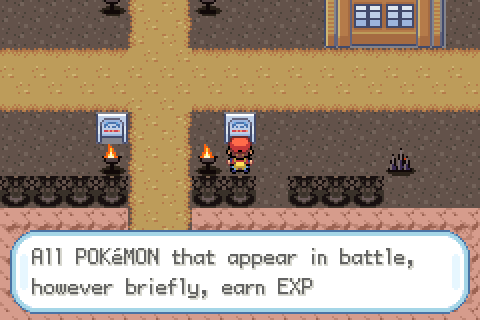
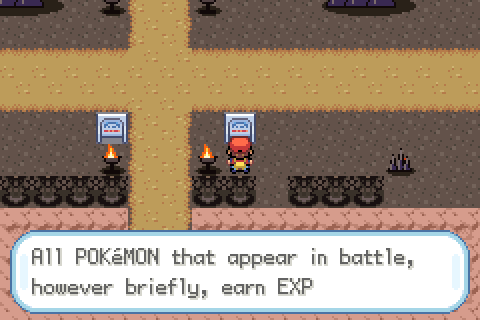
Pyropia v3b: no doorless houses, craters/obsidian fillers, museum hall back, roof fix, path network assertion
Claude-Session: https://claude.ai/code/session_01GQJ6VBZbBVtTh4mURN6n2L

Changed region(s): [[0.6562, 0.0, 0.9375, 0.1562], [0.0, 0.0, 0.1562, 0.0625]]

diff --git a/docs/topaze/pyropia_town.py b/docs/topaze/pyropia_town.py
@@ -150,26 +150,24 @@ D = {}
 chunk(2, 2, 6, 8, 4, 2, 'lac ouest')
 lake(31, 3, 10, 5, 'lac est')
 D['gym'] = chunk(2, 11, 6, 5, 20, 3, 'arene')
-D['museumA'] = chunk(11, 12, 4, 4, 4, 13, 'musee aile A')
-D['museumB'] = chunk(15, 12, 4, 4, 8, 13, 'musee aile B')
-D['center'] = chunk(8, 3, 4, 4, 14, 13, 'centre pokemon')
-D['mart'] = chunk(14, 2, 4, 4, 36, 13, 'boutique')
+# musee : grande halle rouge de 10x4 a deux portes (comme l'original : deux entrees), assemblee avec les morceaux de maison
+LCOL, RCOL, WCOL, DCOL = [8, 16, 24, 32], [10, 18, 26, 34], [9, 17, 11, 19], [9, 17, 25, 33]
+MUSEUM_COLS = [LCOL, WCOL, WCOL, DCOL, WCOL, WCOL, DCOL, WCOL, WCOL, RCOL]
+def museum(dx, dy):
+    claim(dx, dy, 10, 4, 'musee'); doors = []
+    for i, col in enumerate(MUSEUM_COLS):
+        for j, m in enumerate(col):
+            put(dx + i, dy + j, remap(m))
+            if 0x60 <= beh(m) <= 0x6f: doors.append((dx + i, dy + j))
+    return doors
+dm = museum(3, 13); D['museumA'], D['museumB'] = [dm[0]], [dm[1]]
+D['center'] = chunk(8, 4, 4, 3, 16, 14, 'centre pokemon')
+D['mart'] = chunk(14, 3, 4, 3, 36, 14, 'boutique')
 D['house1'] = chunk(11, 12, 4, 4, 38, 29, 'maison 1')
 D['house2'] = chunk(15, 12, 4, 4, 12, 29, 'maison 2')
-D['hallE'] = chunk(11, 12, 4, 4, 28, 29, 'maison deco E')
-D['hallW'] = chunk(15, 12, 4, 4, 5, 29, 'maison deco O')
-D['hallA'] = chunk(15, 12, 4, 4, 5, 22, 'maison deco A')
-D['hallB'] = chunk(11, 12, 4, 4, 11, 23, 'maison deco B')
-D['hallC'] = chunk(11, 12, 4, 4, 30, 13, 'maison deco C')
-D['hallD'] = chunk(15, 12, 4, 4, 30, 17, 'maison deco D') if False else []
 print('portes', {k: v for k, v in D.items()})
-DECO = ('hallE', 'hallW', 'hallA', 'hallB', 'hallC')
-for k in DECO:                               # maisons decoratives : la porte devient une fenetre
-    x, y = D[k][0]
-    put(x, y - 1, remap(0x400 | 11)); put(x, y, remap(0x400 | 19)); D[k] = []
-D = {k: v for k, v in D.items() if k != 'hallD'}
-for k in list(D): assert D[k] or k in DECO, ('pas de porte', k)
-DOORS = {k: v[0] for k, v in D.items() if v}
+for k in list(D): assert D[k], ('pas de porte', k)
+DOORS = {k: v[0] for k, v in D.items()}
 json.dump(DOORS, open('/tmp/pyropia_doors.json', 'w'))
 # ---- chemins (autotile 280..298, largeur 2)
 PATH = set()
@@ -184,10 +182,9 @@ pr(42, 13, 43, 16)                      # descente est : sommet -> milieu
 pr(42, 10, 43, 10)
 pr(24, 25, W - 1, 26)                   # rue est (sortie est)
 pr(3, 33, 44, 34)                       # rue du sud
-pr(4, 17, 41, 18)                       # rue du milieu
+pr(4, 17, 43, 18)                       # rue du milieu
 pr(40, 19, 41, 22)                      # milieu -> bas (escalier est)
-for k in ('museumA', 'museumB', 'center'): pr(fr(k)[0], fr(k)[1], fr(k)[0] + 1, 18)
-pr(fr('mart')[0], fr('mart')[1], fr('mart')[0] + 1, 18)
+for k in ('museumA', 'museumB', 'center', 'mart'): pr(fr(k)[0], fr(k)[1], fr(k)[0] + 1, 18)
 pr(fr('gym')[0], fr('gym')[1], fr('gym')[0] + 1, 9)
 for k in ('house1', 'house2'): pr(fr(k)[0], fr(k)[1], fr(k)[0] + 1, 33)
 pr(10, 20, 11, 33) if False else None
@@ -216,7 +213,7 @@ PINE = [198, 22, 14]
 def pine(x, y): claim(x, y, 1, 1, 'pin'); put(x, y, remap(0x400 | PINE[(x * 3 + y) % 3]))
 SIGN = remap(0x400 | 3)
 def sign(x, y): claim(x, y, 1, 1, 'panneau'); put(x, y, SIGN)
-SIGNS = {'museum': (12, 16), 'police': (42, 27), 'gym': (19, 7), 'tips': (25, 35), 'city': (21, 35)}
+SIGNS = {'museum': (14, 16), 'police': (42, 27), 'gym': (19, 7), 'tips': (25, 35), 'city': (21, 35)}
 for k, c in SIGNS.items(): sign(*c)
 # ------------------------------------------------------------------ art procedural : vents de braise, braseros, cairn de flamme
 used_pals = {q >> 12 for e in SEC_ENT for q in e}
@@ -297,10 +294,31 @@ def stairs():
     d.line([(0, 0), (0, 15)], fill=5); d.line([(15, 0), (15, 15)], fill=5)
     return im
 STAIR = meta(stairs())
+def crater():
+    im = ground_bg(48, 48); d = ImageDraw.Draw(im)
+    d.ellipse((2, 39, 46, 47), fill=13)
+    d.ellipse((2, 4, 46, 44), fill=7, outline=5)                        # anneau de roche
+    d.ellipse((6, 8, 42, 40), fill=6, outline=5)
+    d.ellipse((9, 11, 39, 37), fill=9)
+    d.ellipse((12, 14, 36, 34), fill=10); d.ellipse((16, 18, 32, 30), fill=11); d.ellipse((20, 21, 28, 27), fill=12)
+    for (x, y) in ((4, 14), (6, 30), (42, 16), (40, 32), (14, 5), (30, 5), (22, 42)): d.ellipse((x - 2, y - 2, x + 2, y + 2), fill=8, outline=5)
+    for (x, y) in ((14, 20), (33, 26), (24, 33), (28, 17)): d.point((x, y), fill=12)
+    return im
+def cluster():
+    im = ground_bg(48, 48); d = ImageDraw.Draw(im)
+    d.ellipse((1, 38, 47, 47), fill=13)
+    for (x, h, w) in ((9, 26, 6), (19, 36, 7), (30, 30, 7), (39, 20, 5), (24, 20, 6), (14, 14, 5)):
+        base = 43 if h > 20 else 38
+        d.polygon([(x - w, base), (x, base - h), (x + w, base)], fill=14, outline=5); d.line([(x - w // 2, base - 2), (x, base - h + 3)], fill=8)
+        d.point((x + 1, base - h // 2), fill=15)
+    return im
+CRATER = slice_all(crater(), 3, 3); CLUSTER = slice_all(cluster(), 3, 3)
 
 for (x, y) in STAIRS: put(x, y, ('ARTRAW', STAIR, 0x3000))
-for (i, j), m in CAIRN.items():
-    claim(16 + i, 22 + j, 1, 1, 'cairn'); put(16 + i, 22 + j, ('ARTRAW', m, 0x400))
+def art3(x0, y0, sm, name):
+    for (i, j), m in sm.items(): claim(x0 + i, y0 + j, 1, 1, name); put(x0 + i, y0 + j, ('ARTRAW', m, 0x400))
+art3(16, 22, CAIRN, 'cairn')
+art3(5, 22, CRATER, 'cratere'); art3(10, 24, CRATER, 'cratere'); art3(28, 29, CLUSTER, 'obsidienne'); art3(30, 13, CRATER, 'cratere'); art3(5, 29, CLUSTER, 'obsidienne'); art3(28, 20, CRATER, 'cratere'); art3(33, 28, CRATER, 'cratere'); art3(17, 29, CLUSTER, 'obsidienne')
 def art1(x, y, m, name, blocked=True):
     claim(x, y, 1, 1, name); put(x, y, ('ARTRAW', m, 0x400 if blocked else 0x3000))
 for (x, y) in ((21, 5), (21, 8), (24, 13), (21, 13), (24, 16), (21, 16), (21, 22), (24, 22), (21, 28), (24, 28), (21, 31), (24, 31), (21, 36), (24, 36), (9, 19), (18, 17), (36, 18), (3, 20)):
@@ -319,7 +337,7 @@ for (x, y) in [(2, yy) for yy in range(2, 38)] + [(45, yy) for yy in range(2, 38
 grove(3, 3, 3, 10, 2); grove(26, 3, 29, 10, 3); grove(5, 12, 7, 12, 1); grove(26, 13, 29, 22, 5); grove(43, 13, 45, 22, 4); grove(3, 22, 10, 28, 5); grove(26, 24, 39, 32, 8)
 grove(14, 24, 20, 28, 4); grove(14, 36, 40, 36, 8)
 # ------------------------------------------------------------------ accessibilite / PNJ
-NPC = {'lass': (10, 19 - 1), 'fatman': (26, 28), 'bugcatcher': (30, 20), 'hidden': (34, 21)}
+NPC = {'lass': (10, 19 - 1), 'fatman': (26, 28), 'bugcatcher': (34, 21), 'hidden': (36, 21)}
 def raw_blocked(c):
     v = G[c]
     if isinstance(v, tuple): return bool(v[2] & 0xc00)
@@ -336,6 +354,16 @@ for k, c in NPC.items():
 for k, (x, y) in DOORS.items(): assert (x, y + 1) in seen, ('porte inaccessible', k, (x, y))
 for c in ((22, H - 1), (23, H - 1), (W - 1, 25), (W - 1, 26)): assert c in seen, c
 for k, c in SIGNS.items(): assert (c[0], c[1] + 1) in seen or (c[0], c[1] - 1) in seen or (c[0] - 1, c[1]) in seen or (c[0] + 1, c[1]) in seen, ('panneau inaccessible', k)
+# les chemins doivent former UN reseau : portes, sorties et escaliers atteints en ne marchant que sur chemin/escalier
+PN = PATH | set(STAIRS); cc = {(22, 34)}; qq = collections.deque([(22, 34)])
+while qq:
+    c = qq.popleft()
+    for d_ in ((0, 1), (1, 0), (-1, 0), (0, -1)):
+        n_ = (c[0] + d_[0], c[1] + d_[1])
+        if n_ in PN and n_ not in cc: cc.add(n_); qq.append(n_)
+for k, (x, y) in DOORS.items(): assert (x, y + 1) in cc, ('porte hors reseau de chemins', k)
+for c in ((22, H - 1), (23, H - 1), (W - 1, 25), (W - 1, 26)): assert c in cc, ('sortie hors reseau', c)
+assert not (PN - cc), ('chemins isoles', sorted(PN - cc)[:6])
 json.dump(NPC, open('/tmp/pyropia_npc.json', 'w')); json.dump({k: list(v) for k, v in SIGNS.items()}, open('/tmp/pyropia_signs.json', 'w'))
 
 # ------------------------------------------------------------------ ecriture des tilesets

diff --git a/docs/technique/ARCHITECTURE.md b/docs/technique/ARCHITECTURE.md
@@ -48,7 +48,7 @@ Le dépôt est celui de pokefirered ; seuls les éléments modifiés pour Topaze
 | **Grenalux v5 – grande ville 44×36 (référence v5)** | `docs/topaze/grenalux_big.py` (ordre : `import_emerald_tiles.py` → `grenat_palette.py` → `grenalux_big.py`) : avenue nord-sud, grande rue est-ouest, place centrale avec îlot et monument de cristal, bassin sud relié à la route 21, 4 bâtiments utiles (joueur (8,9), ranch (36,8), labo (35,21), musée (8,21)) et 6 maisons décoratives, potager, ~34 arbres, cristaux. Connexions : route 1 décalée de 10 (ouverture en x=22..23), route 21 décalée de 14 (eau en x=21..23). `heal_locations.json` : respawn (8,10). **La v4 (24×20) reste la référence** : branche `grenalux-v4-reference` et `docs/topaze/reference/` (carte, map.json, scripts, image) ; ses scripts (`grenalux_emerald.py`, `grenalux_crystals.py` en `__main__`) restent exécutables mais il faut alors remettre les dimensions 24×20 dans `layouts.json` et `map.json`. |
 | **Grenalux v6 – ville vivable (version actuelle)** | `docs/topaze/grenalux_town.py` puis `grenalux_events.py` (ordre : `import_emerald_tiles.py` → `grenat_palette.py` → `git checkout fa8f0d0 -- data/layouts/layouts.json` → `grenalux_town.py` → `grenalux_events.py`). Plan d'occupation avec assertions (aucun chevauchement, portes et PNJ atteignables), toits en variantes de palette (11 ardoise-violet, 12 ocre), lampadaires de cristal, cristaux gardiens de l'avenue, carrière de blocs + entrée de mine à l'est, bassin avec promenade, potager, bosquets, chemins de portes par BFS, 6 PNJ d'ambiance (textes provisoires). **Ranch** : maison voisine remplacée par un **jardin de baies décoratif** (parcelle clôturée, buissons à baies non récoltables, jardinière qui l'explique) ; panneau du ranch en (37,9). Clôtures, foin, abreuvoir, buissons, grange et silo (grand ranch) sont dessinés par code dans `grenalux_crystals.py` (pas de moulin/grange dans les tilesets officiels FR/Émeraude). **Grand ranch** : carte `PalletTown_Ranch` (32×24, groupe 4 n°5, layout `LAYOUT_PALLET_TOWN_RANCH`), généré par la 2ᵉ partie de `grenalux_town.py` puis `grenalux_ranch_events.py` ; accessible par l'ouverture du cadre d'arbres à l'est de Grenalux (x=42..43, y=6..7, connexion « droite » décalage 0) : écurie, grange + silo, 3 enclos, cristaux, ouvriers, fillette, animaux. **Avant/après l'attaque** (`FLAG_GRENALUX_ONYBRIS_STRIKE`) : clôture est de l'enclos B intacte puis ouverte (`setmetatile` au chargement), Doduo et 2 Nidoran (Pokémon pisteurs) présents puis disparus, ouvrier au pied de la clôture coupée (`FLAG_HIDE_RANCH_CUT_HAND`) visible seulement après, dialogues des ouvriers changés. Mêmes portes/coordonnées d'événements que la v5 sauf panneau du labo (36,22). **Sorties de ville** : nord (Route 1) et sud (Route 21, par l'eau) sont des **warps** (pas des connexions : mélange de tilesets Émeraude/FR = tuiles brouillées) ; un warp s'active sur case ordinaire dans PalletTown/Route1/Route21_North grâce à `IsTopazeStepWarpMap()` (`src/field_control_avatar.c`). Seule la connexion est (ranch) subsiste, même tileset. Les versions v4 (24×20) et v5 (44×36) restent archivées : branches `grenalux-v4-reference`, `grenalux-v5-reference` et `docs/topaze/reference/`. |
 | **Opanihrum v1 – la cité de l'Opale noire (arène d'Hepha, Acier)** | Ville 42×40 (slot de Jadielle, `LAYOUT_VIRIDIAN_CITY`) construite avec les décors de **Rustboro** (pierre grise d'Émeraude) recolorés en ardoise bleu-nuit (« plus il est sombre, plus il cache de couleurs », cf. dialogue d'Hepha) + art procédural : monument d'opale noire à reflets irisés, enclumes, lingots. `docs/topaze/opanihrum_town.py` (génère carte + tilesets `general_opal` / `rustboro_opal`, **secondaire compacté** : seules les métatuiles utilisées sont gardées, 161+49 tuiles sur 384) puis `opanihrum_events.py`. Rendu d'aide au choix des morceaux : `docs/topaze/emrender.py` (`../pokeemerald` doit avoir `data/layouts/RustboroCity` en sparse-checkout). Bâtiments : **fonderie** (10×9, arène, 2 portes en (8,11)/(9,11), verrouillée par `VAR_MAP_SCENE_VIRIDIAN_CITY_GYM_DOOR`), école, maison, Centre (16,20), Boutique (27,20) + 6 bâtiments décoratifs, fontaine, parc, parterres, lampadaires, grille de fer. Vieil homme (barrage/tutoriel de capture) déplacé à la **porte nord** (20,2), déclencheur (21,2). Sorties = **warps** : nord Route 2 (`x=7..11,y=79`), sud Route 1 (`x=10..13,y=0`), ouest Route 22 (`x=47,y=6..9`) ; `IsTopazeStepWarpMap()` étendu à `LAYOUT_VIRIDIAN_CITY`/`ROUTE2`/`ROUTE22`. Respawn du Centre mis à jour (`heal_locations.h`). Ordre : `opanihrum_town.py` → `opanihrum_events.py` → supprimer `build/firered/data/maps.o` → `make`. Rendu : `docs/topaze/reference/opanihrum_v1.png`. |
-| **Pyropia v3 « en terrasses » – la cité du volcan (arène de Kay, Feu)** | Ville 48×40 (slot d'Argenta, `LAYOUT_PEWTER_CITY`) refaite avec les décors de **Lavaridge** (falaises rouges, bassin, arène, maisons à écailles) recolorés en braise : cendre sombre, terre brûlée, **bassin = lac de lave** (teinte HLS de la palette 8, comportement « eau » retiré : pas de Surf) + art procédural (vents de braise, braseros, obsidienne, **cairn de flamme** 3×3). `docs/topaze/pyropia_town.py` (carte + tilesets `general_ember` / `lavaridge_ember`, secondaire compacté 43+47 tuiles, **variantes miroir** pour la falaise est) puis `pyropia_events.py`. **v3 (« la ville est plate »)** : relief en **3 terrasses décalées** (sommet : arène entre deux lacs de lave ; milieu : Centre, Boutique, musée ; bas : maisons et place du cairn) séparées par des **murs de soutènement de 2 cases** (bandeau 625 + face 628) avec **escaliers** dessinés, joint vertical en falaise miroir ; grand lac de lave est (rectangle bordé de roche, `lake()`). L'avenue monte en ligne droite de la sortie sud à l'arène ; rue du milieu, rue du bas, rue est (sortie est → Route 3 en (47,25..26)). La v2 plate est gardée : `docs/topaze/reference/pyropia_v2.{png,py}`. Avant (v2) : musée = 2 ailes (2 portes), 2 maisons enterrables + 3 maisons décoratives (porte remplacée par une fenêtre). Sorties = **warps** (`IsTopazeStepWarpMap()` étendu à `LAYOUT_PEWTER_CITY`/`ROUTE3`), Route 2 (8..11,0) et Route 3 (0,9..12). Guides scriptés d'origine (guide de l'arène, du musée, assistant aux chaussures, arbre à couper) retirés/cachés (OnTransition) car leurs trajets étaient codés en dur ; chaussures de course déjà données au début. **Respawn du Centre** : désormais dans `src/data/heal_locations.json` (le `.h` est généré et ignoré par git ; l'ancienne édition du `.h` pour Opanihrum était perdue à chaque régénération : corrigée). Rendu : `docs/topaze/reference/pyropia_v2.png`. L'ancienne version (Argenta repeinte, `volcanic_pyropia.py`) est conservée dans l'historique. |
+| **Pyropia v3 « en terrasses » – la cité du volcan (arène de Kay, Feu)** | Ville 48×40 (slot d'Argenta, `LAYOUT_PEWTER_CITY`) refaite avec les décors de **Lavaridge** (falaises rouges, bassin, arène, maisons à écailles) recolorés en braise : cendre sombre, terre brûlée, **bassin = lac de lave** (teinte HLS de la palette 8, comportement « eau » retiré : pas de Surf) + art procédural (vents de braise, braseros, obsidienne, **cairn de flamme** 3×3). `docs/topaze/pyropia_town.py` (carte + tilesets `general_ember` / `lavaridge_ember`, secondaire compacté 43+47 tuiles, **variantes miroir** pour la falaise est) puis `pyropia_events.py`. **v3 (« la ville est plate »)** : relief en **3 terrasses décalées** (sommet : arène entre deux lacs de lave ; milieu : Centre, Boutique, musée ; bas : maisons et place du cairn) séparées par des **murs de soutènement de 2 cases** (bandeau 625 + face 628) avec **escaliers** dessinés, joint vertical en falaise miroir ; grand lac de lave est (rectangle bordé de roche, `lake()`). L'avenue monte en ligne droite de la sortie sud à l'arène ; rue du milieu, rue du bas, rue est (sortie est → Route 3 en (47,25..26)). La v2 plate est gardée : `docs/topaze/reference/pyropia_v2.{png,py}`. Avant (v2) : **v3b** : plus aucune maison sans porte : seules restent les 2 maisons qui ont un intérieur ; les vides sont comblés par des **cratères de lave** et des **amas d'obsidienne** (art 3×3), le musée redevient une **grande halle rouge 10×4 à 2 portes** (comme l'original), Centre et Boutique sans la rangée de toit qui montrait des morceaux de falaise ; `pyropia_town.py` vérifie par assertion que portes, sorties et escaliers forment **un seul réseau de chemins**. Sorties = **warps** (`IsTopazeStepWarpMap()` étendu à `LAYOUT_PEWTER_CITY`/`ROUTE3`), Route 2 (8..11,0) et Route 3 (0,9..12). Guides scriptés d'origine (guide de l'arène, du musée, assistant aux chaussures, arbre à couper) retirés/cachés (OnTransition) car leurs trajets étaient codés en dur ; chaussures de course déjà données au début. **Respawn du Centre** : désormais dans `src/data/heal_locations.json` (le `.h` est généré et ignoré par git ; l'ancienne édition du `.h` pour Opanihrum était perdue à chaque régénération : corrigée). Rendu : `docs/topaze/reference/pyropia_v2.png`. L'ancienne version (Argenta repeinte, `volcanic_pyropia.py`) est conservée dans l'historique. |
 | **Route 1 « route du dégradé » (carte entièrement nouvelle 26×54)** | `docs/topaze/route1_gradient.py` puis `route1_events.py`. Les couleurs glissent du **grenat** (sud, Grenalux) au **violet** puis à l'**opale noire** (nord, Opanihrum) : 3 étages de palettes (mélange en teinte HLS par le violet) ; les métatuiles d'Émeraude (herbe, arbres, fleurs, herbe haute, sable) sont recopiées dans le tileset secondaire `gradient_road` avec d'autres numéros de palette (emplacements : étage 0 = primaire 0,2,5 ; étage 1 = primaire 1,3,4 ; étage 2 = secondaire 7,8,9 ; art 6/10/11 ; panneau 12), l'étage de chaque case suit le gradient sud→nord + un champ lisse + un grain (fondu irrégulier). Chemin sinueux, 10 zones d'herbes hautes (rencontres), cristaux épars (prismes de grenat → dômes d'opale) et « pierre du dégradé » (3×3). Warps : sud (12..13,53) ↔ Grenalux, nord (14..17,0) ↔ Opanihrum. Le garçon et le panneau ont de nouveaux textes (plus de corniches). Primaire `general_gradient`. Rendu : `docs/topaze/reference/route1_gradient_v1.png`. **v5 (actuelle)** : transitions arbres/herbe corrigées (arbres et herbe de bordure ou voisine d'un arbre prennent le même étage lissé, sans grain). Rendu : `route1_gradient_v5.png`. **v4 (gardée de côté : `reference/route1_gradient_v4.{png,py}`, branche `route1-gradient-v4-reference`)** : retour « trop longue, le joueur va tout droit » → carte raccourcie **26×38** et chemin **obligatoirement en zigzag** : 4 crêtes de roche quasi pleine largeur (bords ondulés) avec chacune une brèche, côtés alternés (`RIDGE_Y`, `GAPS` dans `route1_gradient.py`) ; warps sud (12..13,37), nord (14..17,0). Rendu : `route1_gradient_v4.png`. **v3 (archivée, `route1_gradient_v3.png`)** : retour de l'utilisateur sur la v2 « trop brute, pas assez naturel, les murs ne se touchent pas » → chemin en méandre continu (`xc(y)` + remplissage ligne à ligne), plus de monticules ni de corniches ; 11 **plateaux rocheux organiques** (blobs de croissance compacte) dessinés en **autotile** (masque des 4 voisins, 3 variantes, teinte selon l'étage au centroïde) donc les murs se touchent et forment des crêtes continues ; pierre du dégradé et panneau (11,51) conservés. Rendu : `docs/topaze/reference/route1_gradient_v3.png`. **v2 (archivée dans le rendu `route1_gradient_v2.png`)** : chemin beaucoup plus sinueux (18 points, segments courts), 5 **murs de collines** (monticules de roche 2×2, métatuiles 131/132/139/140, palette de roche partagée en 12) qui ne laissent que le chemin, **corniches** (ledges, saut vers le sud) en terrasses, panneau dessiné en art ; herbes hautes tirées au hasard près du chemin. La v1 (chemin presque droit) est conservée : `docs/topaze/reference/route1_gradient_v1.{png,py}` et branche `route1-gradient-v1-reference`. |
 | Ville de départ Grenalux | `PalletTown` (`text.inc`), `region_map_entry_strings.h` |
 | Rival par défaut ZEPHYR | `data/text/new_game_intro.inc` |
